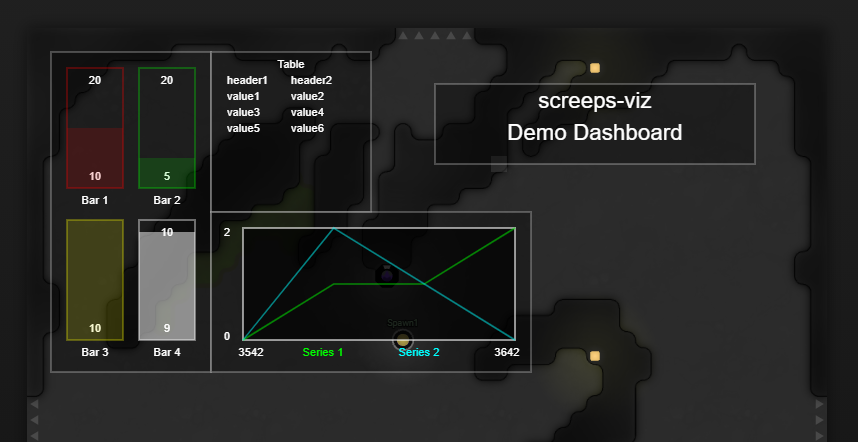
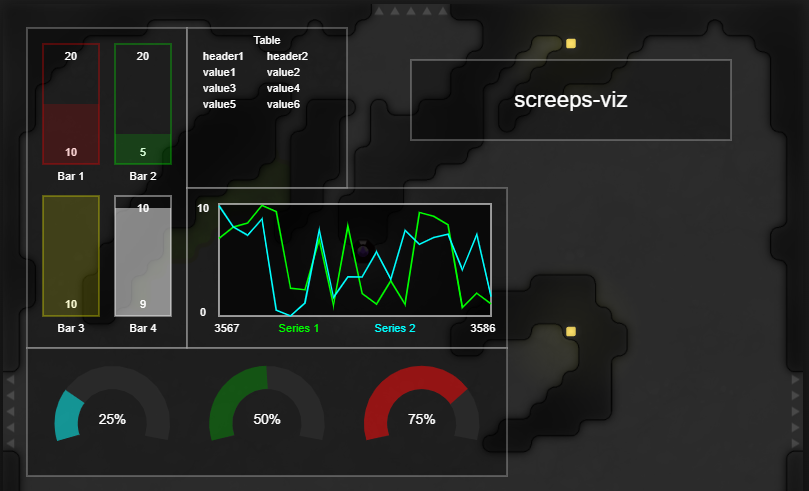
Adding dials

diff --git a/src/widgets/Dial.ts b/src/widgets/Dial.ts
@@ -1,0 +1,62 @@
+import { ConfiguredWidget } from "../Widget";
+import { viz } from "../Viz";
+
+export interface DialConfig {
+    label: string,
+    textStyle: TextStyle,
+    foregroundStyle: PolyStyle,
+    backgroundStyle: PolyStyle,
+}
+
+export interface DialData {
+    value: number
+}
+
+export const Dial = ConfiguredWidget<DialData, DialConfig>({
+    label: '',
+    textStyle: { font: '0.85', },
+    foregroundStyle: {
+        stroke: 'white',
+        strokeWidth: 1,
+    },
+    backgroundStyle: {
+        stroke: '#333333',
+        strokeWidth: 1,
+    },
+}, ({ data, config, renderConfig }) => {
+    let { height, width, pos } = renderConfig;
+    let { value } = data;
+
+    value = Math.max(0, Math.min(1, value)); // Constrain between 0 and 1
+
+    // Display constants labels
+    const RESOLUTION = 16;
+    const RANGE = 1.2 * Math.PI;
+    const START_ANGLE = (3 * Math.PI - RANGE) / 2;
+    const background_increment = RANGE / (RESOLUTION - 1);
+    const increment = (RANGE * value) / (RESOLUTION - 1);
+
+    const radius = Math.min(width * (1 / 3), height * (1 / 2));
+    const offsetX = pos.x + (width * (1 / 2));
+    const offsetY = pos.y + (height + radius / 2) * (1 / 2)
+
+    const background: [number, number][] = [];
+    for (let i = 0; i < RESOLUTION; i++) {
+        background.push([
+            (Math.cos(i * background_increment + START_ANGLE) * radius) + offsetX,
+            (Math.sin(i * background_increment + START_ANGLE) * radius) + offsetY,
+        ])
+    }
+
+    const points: [number, number][] = [];
+    for (let i = 0; i < RESOLUTION; i++) {
+        points.push([
+            (Math.cos(i * increment + START_ANGLE) * radius) + offsetX,
+            (Math.sin(i * increment + START_ANGLE) * radius) + offsetY,
+        ])
+    }
+
+    viz().poly(background, { ...config.backgroundStyle, strokeWidth: radius / 2 });
+    viz().poly(points, { ...config.foregroundStyle, strokeWidth: radius / 2 });
+    viz().text(config.label, offsetX, offsetY, { ...config.textStyle, align: 'center' });
+})

diff --git a/src/demo.ts b/src/demo.ts
@@ -7,6 +7,7 @@ import { Label } from "./widgets/Label";
 import { LineChart } from "./widgets/LineChart/LineChart";
 import { Rectangle } from "./widgets/Rectangle";
 import { Table } from "./widgets/Table";
+import { Dial } from "widgets/Dial";
 
 declare global {
     interface Memory {
@@ -140,6 +141,42 @@ export function loop() {
                     data: Label({
                         data: 'screeps-viz', 
                         config: {style: {font: 1.4}}
+                    })
+                })
+            },
+            {
+                pos: {
+                    x: 1,
+                    y: 21
+                },
+                width: 31,
+                height: 8,
+                widget: Rectangle({
+                    data: Grid({
+                        data: [
+                            Dial({
+                                data: { value: 0.25 }, 
+                                config: {
+                                    label: '25%',
+                                    foregroundStyle: { stroke: 'cyan' }
+                                }
+                            }),
+                            Dial({
+                                data: { value: 0.50 }, 
+                                config: {
+                                    label: '50%',
+                                    foregroundStyle: { stroke: 'green' }
+                                }
+                            }),
+                            Dial({
+                                data: { value: 0.75 }, 
+                                config: {
+                                    label: '75%',
+                                    foregroundStyle: { stroke: 'red' }
+                                }
+                            }),
+                        ],
+                        config: { columns: 3, rows: 1 }, 
                     })
                 })
             }

diff --git a/src/widgets/Dial.test.ts b/src/widgets/Dial.test.ts
@@ -1,0 +1,15 @@
+import { viz } from "../Viz"
+import { Dial } from "./Dial";
+
+jest.mock('../Viz');
+
+describe('Dial', () => {
+    it('should call viz().text()', () => {
+        const widget = Dial(() => ({
+            data: {value: 1}
+        }));
+        widget({ pos: {x: 0, y: 0}, width: 10, height: 10 })
+        expect(viz().text).toBeCalled();
+        expect(viz().poly).toBeCalledTimes(2);
+    });
+});
